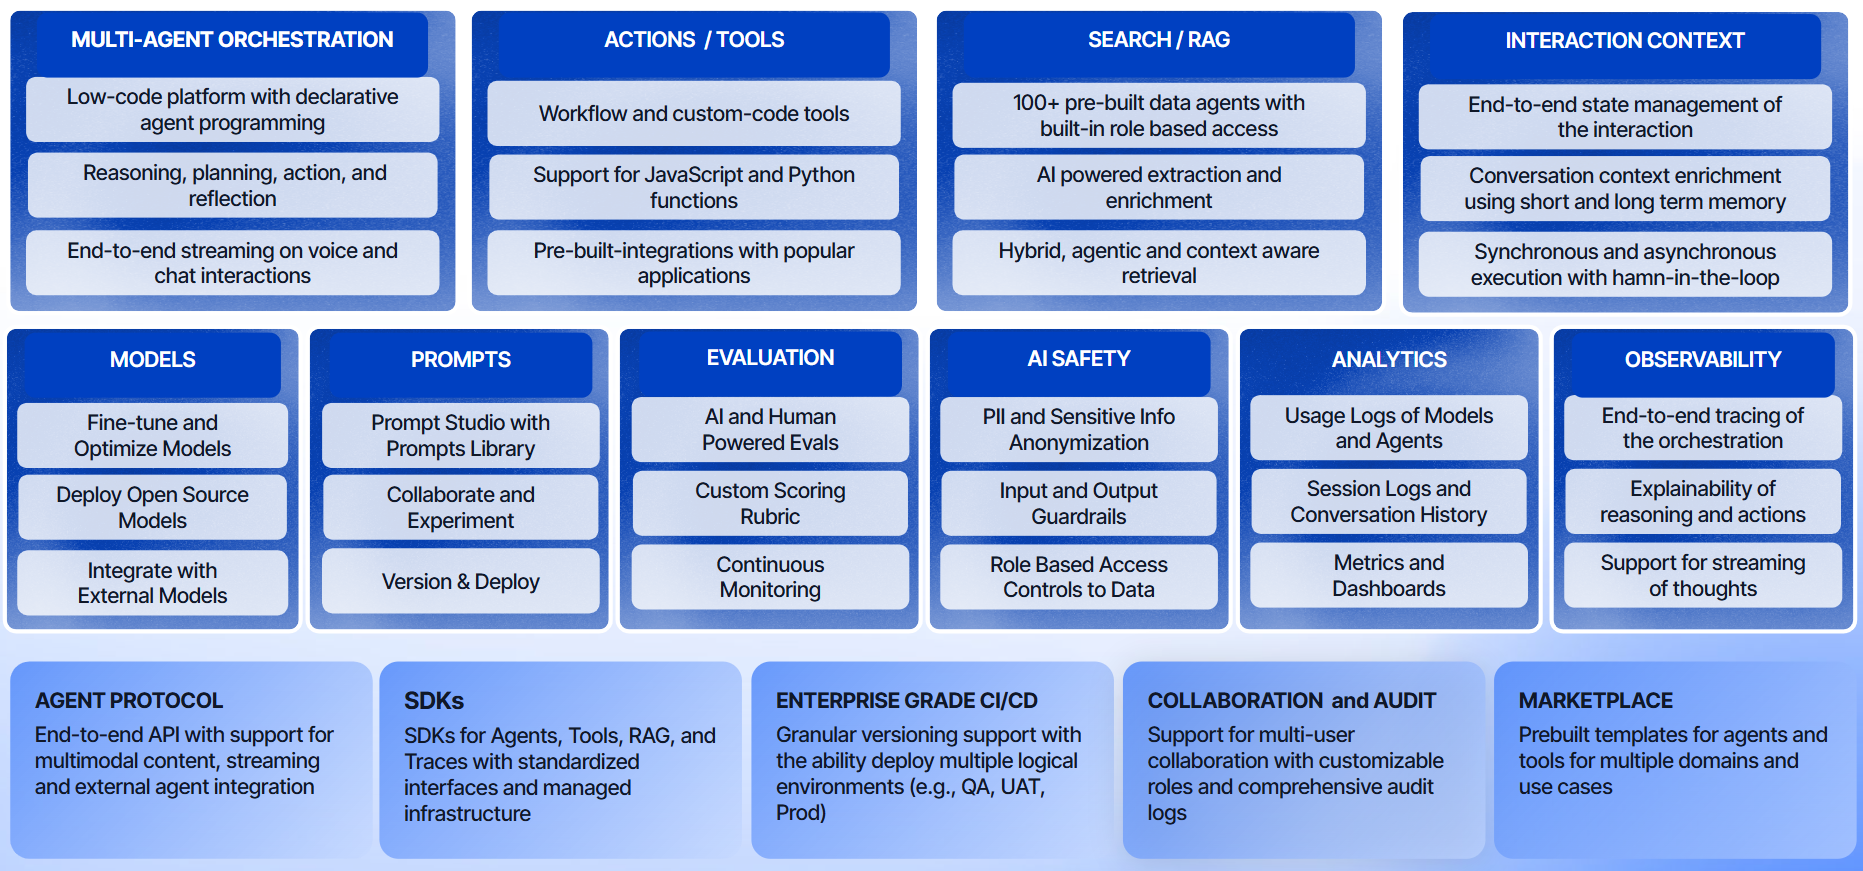
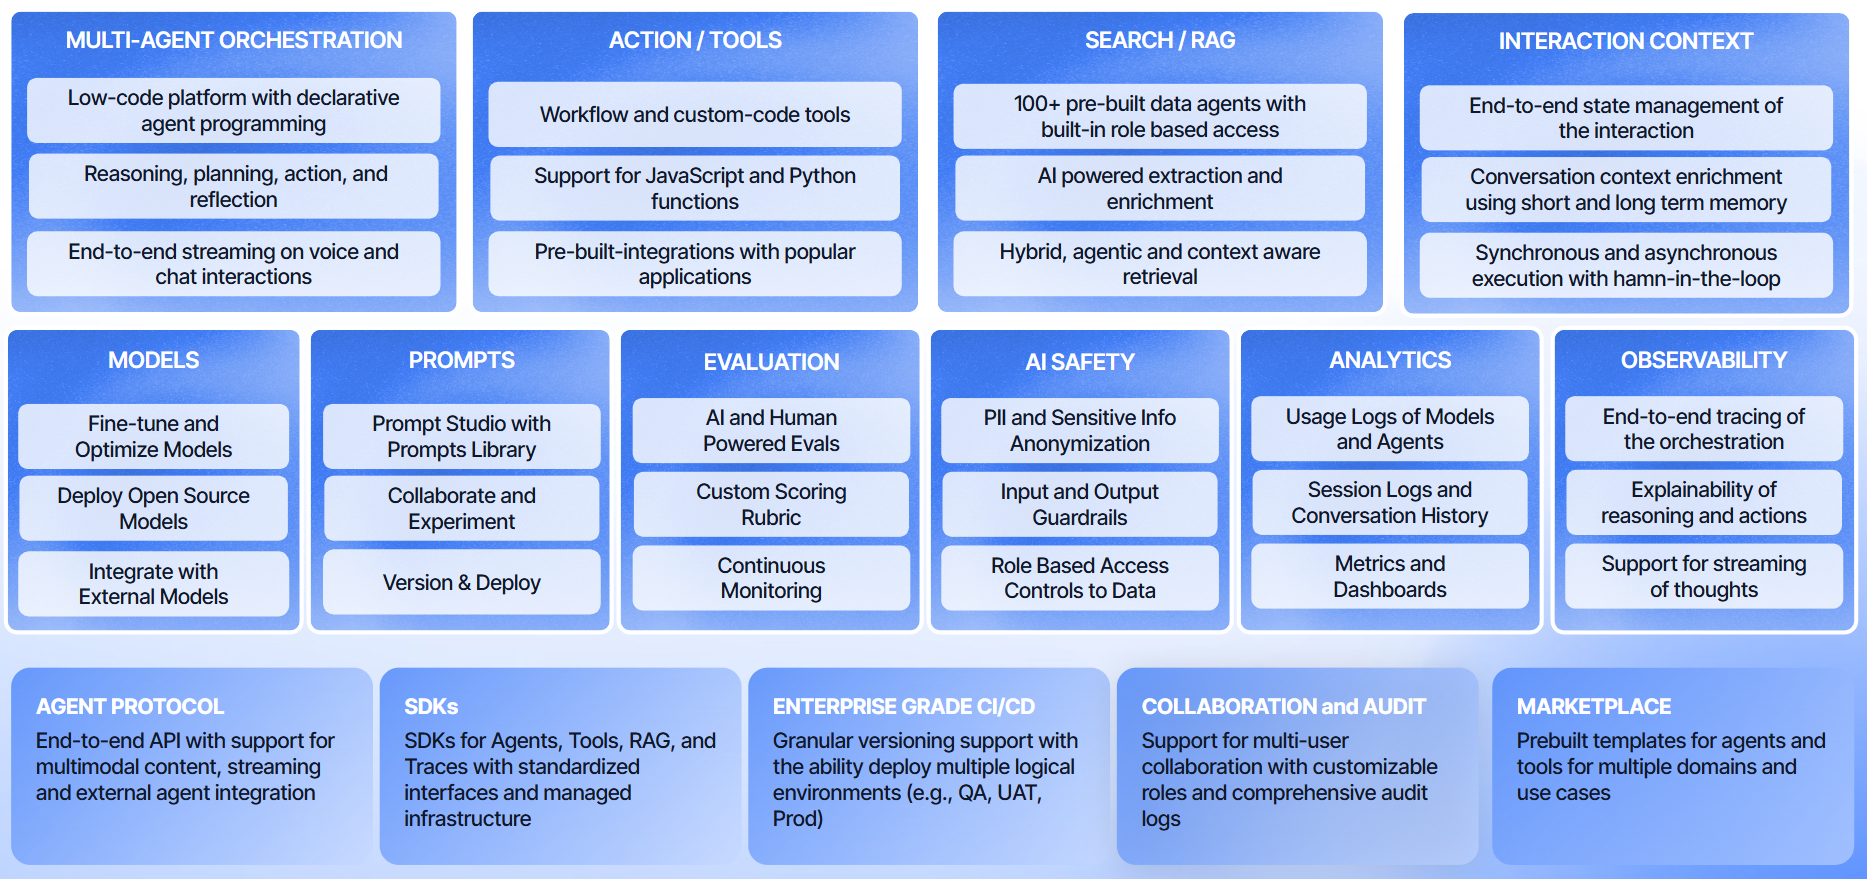
image description

diff --git a/docs/agent-platform/getting-started/introduction.md b/docs/agent-platform/getting-started/introduction.md
@@ -23,29 +23,34 @@ The Platform's capabilities are powered by its key components that work together
 
 <img src="../images/agent-platform-overview.png" alt="Agent Platform" title="Agent Platform">
 
-* **Agentic Apps**: Build intelligent AI systems that work together autonomously. Create AI assistants that reason, plan actions, and collaborate as a team to handle complex business processes with human-like intelligence.
+* **Multi-Agent Orchestration** provides a low-code platform with declarative agent programming for reasoning, planning, action, and reflection, along with end-to-end streaming on voice and chat interactions.
 
-* **Actions / Tools**: Connect your AI to real-world systems and data. With low-code and custom options, create tools that let AI tools interact with business systems.
+* **Actions / Tools** offer workflow and custom-code tools with support for JavaScript and Python functions, plus pre-built integrations with popular applications.
 
-* **Models**: Choose and optimize the right AI models for your needs. Fine-tune models for specific tasks, deploy open-source options, or connect to external providers while maintaining control.
+* **Search / RAG** (Retrieval-Augmented Generation) includes 100+ pre-built data agents with built-in role based access, AI powered extraction and enrichment, as well as hybrid, agentic, and context aware retrieval.
 
-* **Prompts**: The Prompt Studio helps create, test, and manage instructions that control AI model responses. Collaborate, experiment, and deploy optimized prompts.
+* **Interaction Context** enables end-to-end state management of the interaction, conversation context enrichment using short and long term memory, and synchronous and asynchronous execution with human-in-the-loop.
 
-* **AI Safety**: Protect sensitive information and control AI outputs. Anonymize private data, establish content guardrails, and control access based on user roles for responsible, compliant AI use.
+* **Models** allows fine-tuning and optimizing the right AI models for your needs as well as deploying open source models and integration with external models.
 
-* **Evaluation**: Measure and improve AI performance systematically through custom scoring criteria using AI models as evaluators.
+* **Prompts** includes a prompts library, collaboration and experimentation features, and version & deploy capabilities.
 
-* **Observability**: Gain complete visibility into AI system operations with end-to-end tracing, explainable AI, and thought streaming.
+* **Evaluation** helps measure and improve AI performance systematically through custom scoring criteria using AI and human evaluations and continuous monitoring.
 
-* **Analytics**: Track usage patterns and performance metrics through intuitive dashboards to optimize system performance and demonstrate ROI.
+* **AI Safety** ensures anonymization of PII and sensitive info, input and output guardrails, and role based access controls to data.
 
-* **Agent Protocol**: Standardize communication across AI systems with an API supporting multimodal content and real-time streaming. Allows integrating with tools built on external platforms with full support for request/response exchange, streaming of responses and logs. 
+* **Analytics** captures usage logs of models and agents, session logs and conversation history, and metrics and dashboards.
 
-* **No-Code Development**: Accelerate AI application development through structured no-code tooling. Business teams can actively participate alongside technical staff, accelerating time to market and fostering collaboration.
+* **Observability** enables end-to-end tracing of the orchestration, explainability of reasoning and actions, and support for streaming of thoughts.
 
-* **Extension SDKs**: The platform offers SDKs all the key components like for Agentic Apps, Tools, RAG, and Traces, enabling teams to quickly build custom components across the entire AI workflow that are compatible with the platform's security and governance frameworks.
+* **Agent Protocol** provides an end-to-end API with support for multimodal content, streaming, and external agent integration.
 
-* **Enterprise-Grade CI/CD**: Deploy and manage AI applications with industrial-strength processes supporting multiple environments and granular versioning.
+* **SDKs** are available for Agents, Tools, RAG, and Traces with standardized interfaces and a managed infrastructure.
 
-* **Collaboration and Governance**: Work together securely with multi-user collaboration, customizable roles and permissions, and detailed audit logs.
+* **Enterprise Grade CI/CD** supports granular versioning with the ability to deploy multiple logical environments (for example, QA, UAT, Prod).
+
+* **Collaboration and Audit** enables multi-user collaboration with customizable roles and comprehensive audit logs.
+
+* **Marketplace** provides prebuilt templates for agents and tools for multiple domains and use cases.
+
 <hr>
